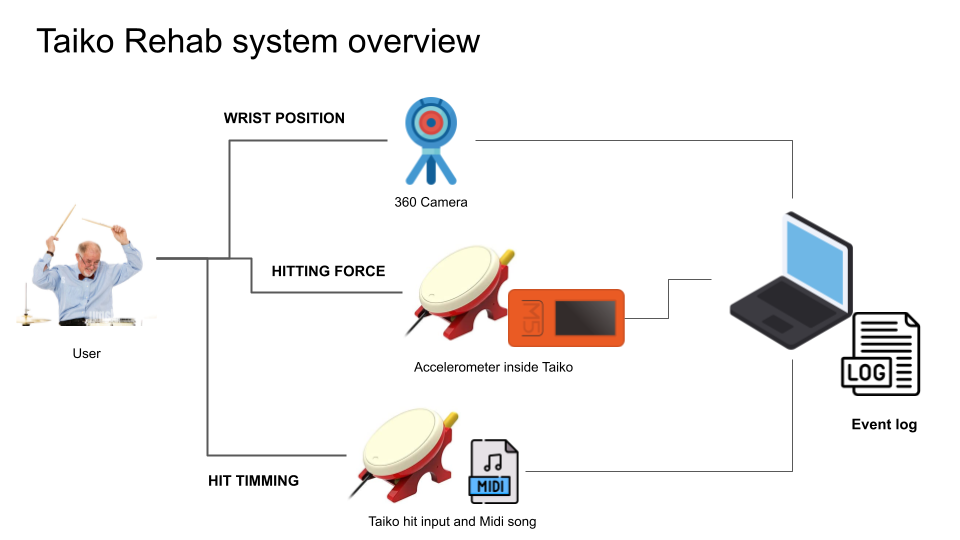
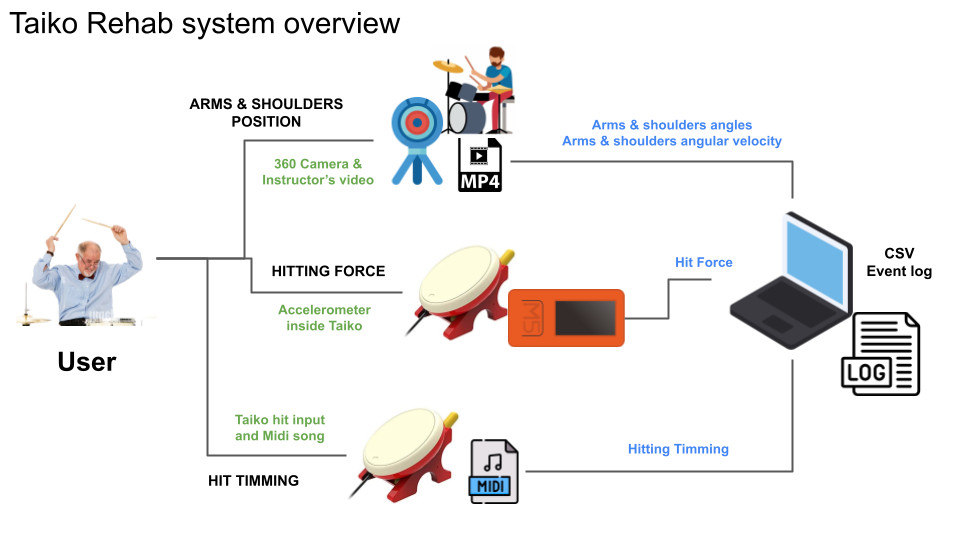
Documentation update

diff --git a/README.md b/README.md
@@ -1,8 +1,27 @@
 # Taiko Rehab
-Cognitive and physical rehabilitation system with cooperative taiko playing
+Cognitive and physical rehabilitation system for old people by playing Taiko
 
 ## System description
-Taiko Rehab can play any MIDI file while automatically record the users' movement, wrist height and hitting timming and force. All this data then is dumped into a CSV for later analysis.  
+Taiko Rehab uses a MIDI file and a video file of an instructor playing the Taiko. When the music starts, Taiko Rehab plays the MIDI and video file together, while the system registers the user's shoulders and arms positions, the hitting timming and the force. Finally when the program is closed, all the data is dumped into a CSV file for later analysis. 
+
+![System Description](img/system_description.png?raw=true)
+
+## Usage 
+
+First it is necessary to pre-process the video file of the instructor to create a CSV file that saves the instructors arm and shoulders positions. 
+To do it, open a terminal in the same folder whre the TaikoRehab is located and type:
+
+`python taiko_rehab.py -p [INSTRUCTOR VIDEO FILE.mp4]`
+
+Wait until the video is played completely and the program closes it self. 
+
+To use TaikoRehab, open a terminal and type the following command:
+
+`python taiko_rehab.py [MUSIC MIDI FILE .midi] [INSTRUCTOR VIDEO FILE.mp4]`
+
+(NOTE. The instructor video file and the CSV file must be in the same folder and have the same name)
+
+## Hardware
 
 The sensor used for this are: 
 - Taiko joystick to measure hit timming 
@@ -11,7 +30,6 @@ https://www.amazon.co.jp/gp/product/B07T9DZBW9
  https://www.amazon.co.jp/-/en/gp/product/B07MPBMRWD/ref=ox_sc_act_title_1?smid=A3ALF3N55UI5NK&psc=1
 - Web Camera to measure the wrist position with OpenPose
 
-![System Description](img/system_description.png?raw=true)
 
 ## Event Log Description 
 
@@ -21,21 +39,20 @@ https://www.amazon.co.jp/gp/product/B07T9DZBW9
 | Time(epoch) | The PC epoch time when the event happen. (in milliseconds) | long |
 | Z_Axis_Accelration_(ms/s^2) | Acceleration on Z axis of the taiko surface | float |
 | Force(N) | Approximation of the hitting force (acc in z axis * sensor mass) (given in Newton) | float |
-| Left_Height(Norm) | Normalized left wrist height. (normalized to the camera Y resolution) | float |
-| Right_Height(Norm) | Normalized right wrist height. (normalized to the camera Y resolution) | float |
-| Left_Height(Raw) | Raw OpenPose left wrist height position | float |
-| Right_Height(Raw) | Raw OpenPose right wrist height position | float |
+| Left_Arm_Angle | The angle between the left arm and forearm | float |
+| Right_Arm_Angle | The angle between the right arm and forearm | float |
+| Left_Shoulder_Angle | The angle between the left arm and shoulder | float |
+| Right_Shoulder_Angle | The angle between the right arm and shoulder | float |
+| Left_Arm_Angular_Vel | Left arm angular velocity (deg/sec) | float |
+| Right_Arm_Angular_Vel | Right arm angular velocity (deg/sec) | float |
+| Left_Shoulder_Angular_Vel | Left shoulder angular velocity (deg/sec) | float |
+| Right_Shoulder_Angular_Vel | Right shoulder angular velocity (deg/sec) | float |
 | Hit_Time(epoch) | PC epoch time when the user hit the taiko (in milliseconds) | long |
 | Timming | Time difference between the event epoch and the hit epoch time (in ms) | long |
 | Hit | HIT if the user hit the note, MISS if not | string |
 
-## Usage 
-Open a terminal where the program is located, go the the `bin` folder and type:
-
-`python taiko_rehab.py [midi_file_path.mid]`
-
 ## Configuration
-The program has many constant to control several paramters. These constants are in capital letters placed on the top of each Python file. 
+The program has many control paramters. The value of these constants can be modified inside the `include/control_params.py` file. 
 
 - OP_MODELS_PATH - OpenPose models folder
 - OP_PY_DEMO_PATH - OpenPose main path folder 
